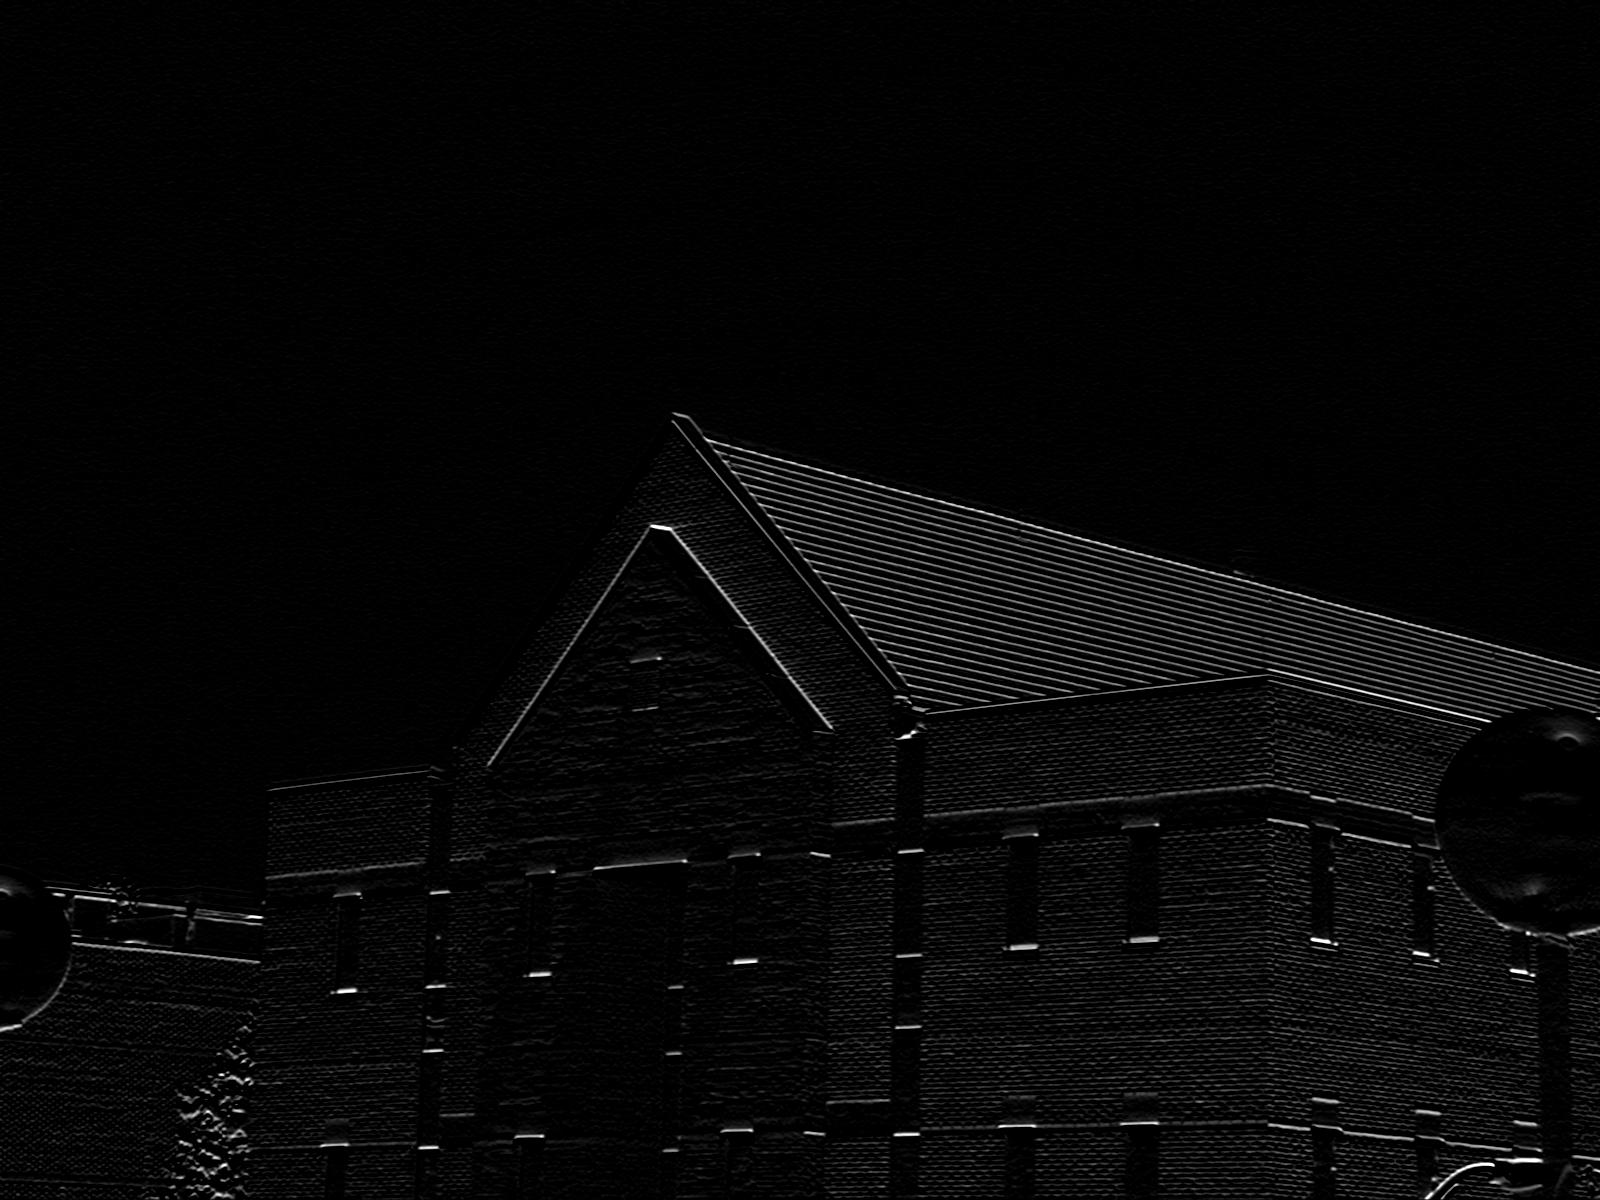
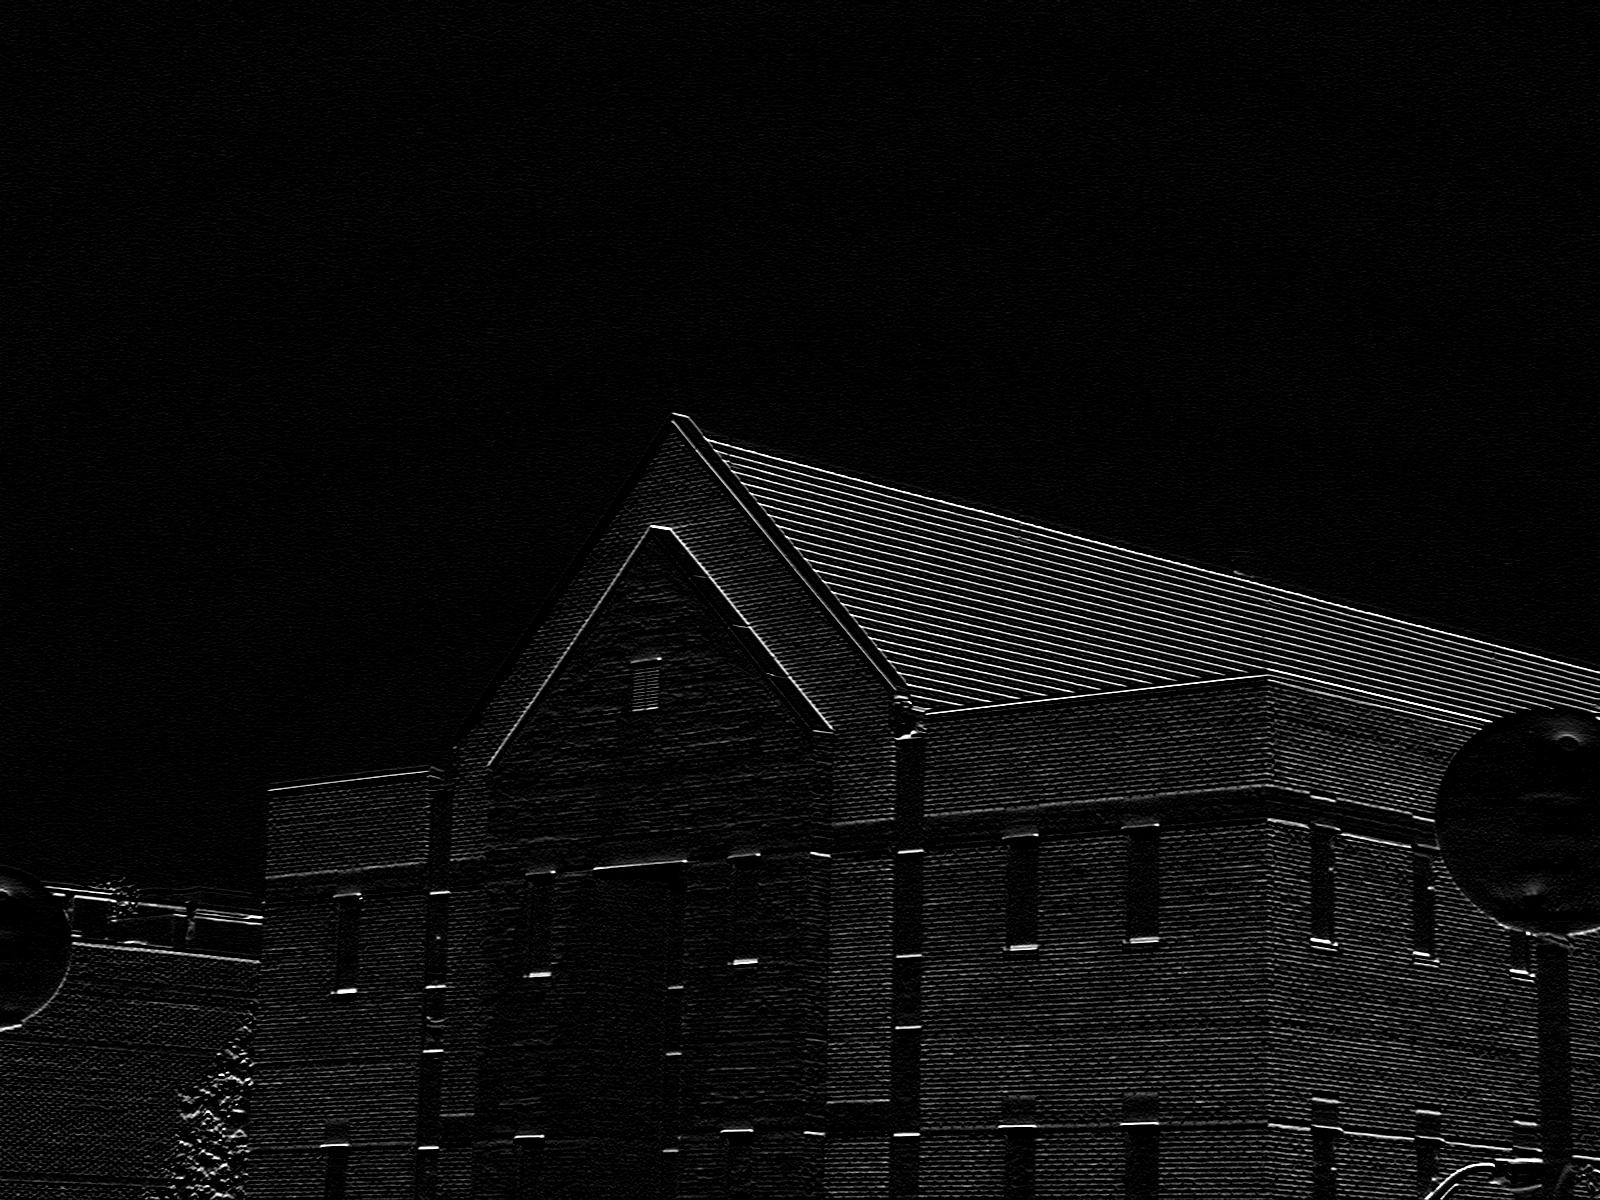
att 3+4+1

diff --git a/questao4.py b/questao4.py
@@ -1,0 +1,73 @@
+
+from PIL import Image
+import numpy as np
+import math
+
+
+
+def calculo_limiar_global(imagem,dT):
+    T = np.mean(imagem)   #Limiar T atual
+    T_ant = 0 #Limiar T anterior
+
+    #Enquanto a diferença do limiar atual e anterior não menor que o parâmetro dT, repete. 
+    while(np.abs(T-T_ant)>dT):
+        #Segmentar a imagem usando o limiar T em dois grupos G1 e G2, sendo que 
+        #em G1 tem pixels com intensidade > T, e
+        #em G2 tem pixels com intensidade <= T.
+        G1=imagem[imagem>T]
+        G2=imagem[imagem<=T]
+
+        #Calcula a intensidade média de m1 e m2 para os pixels em G1 e G2, respectivamente.
+        m1=np.mean(G1) if G1.size != 0 else 0
+        m2=np.mean(G2) if G2.size != 0 else 0
+
+        #Calcula um novo limiar
+        T_ant=T
+        T=0.5*(m1+m2)
+
+
+    return round(T)
+
+
+def segmentacao_limiar_global(imagem, T,img_orig):
+    imgGTT = Image.new(img_orig.mode, img_orig.size, color = 'black')
+    imgLET = Image.new(img_orig.mode, img_orig.size, color = 'black')
+
+    imageGTT = np.asarray(imgGTT,dtype='float64')
+    imageLET = np.asarray(imgLET,dtype='float64')
+
+    for i in range(imagem.shape[0]):
+        for j in range(imagem.shape[1]):
+            if(imagem[i,j]>T):
+                imageGTT[i,j]=imagem[i,j]
+            else:
+                imageLET[i,j]=imagem[i,j]
+
+    imgGTT = Image.fromarray(np.uint8(imageGTT))
+    imgGTT.save('output/4.1-GTT'+'.jpg')
+
+    imgLET = Image.fromarray(np.uint8(imageLET))
+    imgLET.save('output/4.1-LET'+'.jpg')
+
+    return 
+
+
+
+def main():
+
+
+    fileImage = Image.open('input/rice.jpg')
+    image = np.asarray(fileImage,dtype='float64')
+
+    dT=1
+    T=calculo_limiar_global(image,dT)
+    print("Limiar T:",T," dT:",dT)
+    if(fileImage.mode=='RGB'):
+        segmentacao_limiar_global(image[:,:,0], T,fileImage)
+    else:
+        segmentacao_limiar_global(image, T,fileImage)
+    return
+
+
+if __name__ == '__main__':
+    main()

diff --git a/questao1.py b/questao1.py
@@ -82,6 +82,21 @@ def laranja2verde(imagem_hsi):
 
     for i in range(imagem_hsi.shape[0]):
         for j in range(imagem_hsi.shape[1]):
+            if(imagem_hsi[i,j,0]<15):
+                imagem_hsi[i,j,0]+=65
+            elif(imagem_hsi[i,j,0]>=15 and imagem_hsi[i,j,0]<30):
+                imagem_hsi[i,j,0]+=50
+            elif(imagem_hsi[i,j,0]>=30 and imagem_hsi[i,j,0]<45):
+                imagem_hsi[i,j,0]+=35
+            elif(imagem_hsi[i,j,0]>=45 and imagem_hsi[i,j,0]<60):
+                imagem_hsi[i,j,0]+=20
+            elif(imagem_hsi[i,j,0]>=60 and imagem_hsi[i,j,0]<75):
+                imagem_hsi[i,j,0]+=5
+
+def laranja2verde_2(imagem_hsi):
+
+    for i in range(imagem_hsi.shape[0]):
+        for j in range(imagem_hsi.shape[1]):
             if(imagem_hsi[i,j,0]<65):
                 imagem_hsi[i,j,0]=80
 
@@ -93,7 +108,8 @@ def main():
 
     imagem_em_hsi=convert_rgb2hsi(image)
 
-    laranja2verde(imagem_em_hsi)
+    #laranja2verde(imagem_em_hsi)
+    laranja2verde_2(imagem_em_hsi)
 
     imagem_em_rgb=convert_hsi2rgb(imagem_em_hsi)
 

diff --git a/questao3.py b/questao3.py
@@ -131,10 +131,11 @@ def main():
 
     imagem = Image.open('input/Fig10.10(a).jpg')
 
+    #usar borramento mais agressivo
     temp=convolucaonxn(imagem,Filtro_Passa_Baixa_3x3,Constante_Passa_Baixa_3x3,"tmp",3,False,True)
-    convolucaonxn(temp,Filtro_Sobel_3x3_x,1,"3_Sobel_x",3,False,False)
+    convolucaonxn(temp,Filtro_Sobel_3x3_x,1,"3_Sobel_x_com_blur",3,False,False)
     convolucaonxn(imagem,Filtro_Sobel_3x3_x,1,"3_Sobel_x",3,False,False)
-    convolucaonxn(imagem,Filtro_Sobel_3x3_y,1,"3_Sobel_x",3,False,False)
+    convolucaonxn(imagem,Filtro_Sobel_3x3_y,1,"3_Sobel_y",3,False,False)
 
     return
 
